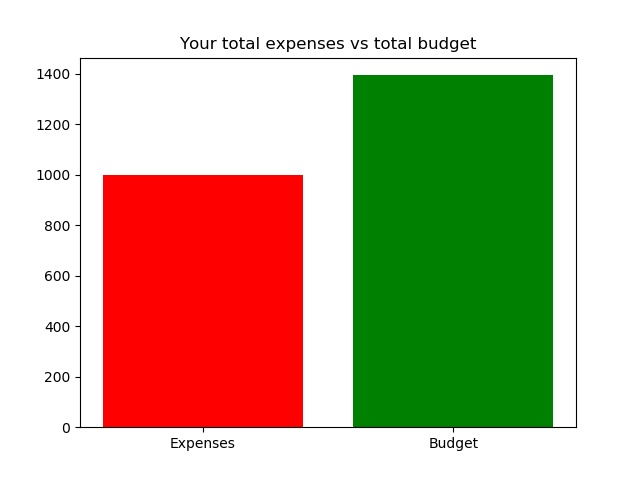
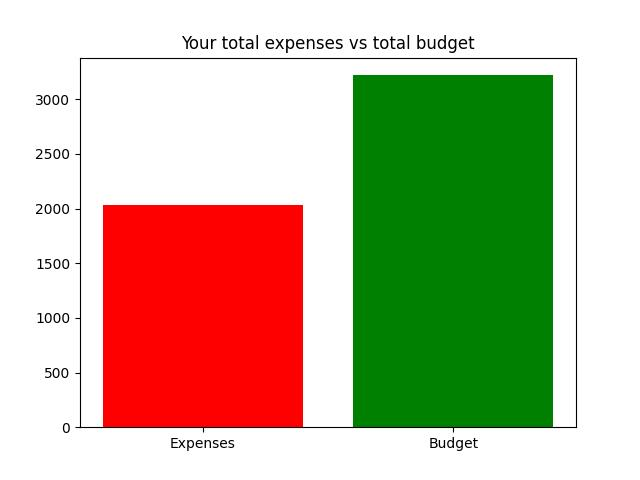
Commit budget_controller 02.11

diff --git a/budget_controller_app/budget/templates/budget/home-budget.html b/budget_controller_app/budget/templates/budget/home-budget.html
@@ -1,5 +1,6 @@
 {% extends 'budget/base.html' %}
 {% block content %}
+{% load static %}
 <body>
 <div class="content-section">
     <div class="media">
@@ -24,7 +25,7 @@
 <h2>Twoje wydatki:</h2>
 {% for a in expanses %}
 <h6>{{ a.expense_reason }} - {{ a.cost }} {{ a.currency_expanse }} from {{ a.date_expanse|date:"d.m.Y" }}</h6>
-    {% endfor %}
+{% endfor %}
 <div class="row">
     <div class="container center">
         <h3 clas='center'>You've spent a total of : <span style="color:red;">{{expenses}}</span></h3>
@@ -36,5 +37,5 @@
                 var instances = M.Datepicker.init(elems, {format:'yyyy-mm-dd'});
             });
         </script>
-</body>
+
 {% endblock %}

diff --git a/budget_controller_app/budget/views.py b/budget_controller_app/budget/views.py
@@ -11,7 +11,6 @@ from django.contrib.auth.models import User
 
 @login_required(login_url='login')
 def home_user_page(request):# strona startowa jak sie uzytkownik zaloguje
-    expense_items = ExpensesInfo.objects.filter(author_expanse=request.user).order_by('-date_expanse')
     try:
         budget_total = Income.objects.filter(author=request.user).aggregate(budget_total=Sum('income'))
         expense_total = ExpensesInfo.objects.filter(author_expanse=request.user).aggregate(expenses=Sum('cost'))
@@ -19,12 +18,12 @@ def home_user_page(request):# strona startowa jak sie uzytkownik zaloguje
         ax.bar(['Expenses', 'Budget'], [abs(expense_total['expenses']), budget_total['budget_total']],
                color=['red', 'green'])
         ax.set_title('Your total expenses vs total budget')
-        plt.savefig('budget_controller_app/static/budget/expense.jpg')
+        plt.savefig('budget/static/budget/expense.jpg')
     except TypeError:
         print('NO DATA')
-    context = {'expense_items': expense_items, 'title': 'Budget app', 'incomes': Income.objects.all(),
-               'expanses': ExpensesInfo.objects.all(), 'budget': budget_total,
-               'expenses': expense_total}
+    context = {'title': 'Budget app', 'incomes': Income.objects.all(),
+               'expanses': ExpensesInfo.objects.all(), 'budget': budget_total['budget_total'],
+               'expenses': abs(expense_total['expenses'])}
     return render(request, 'budget/home-budget.html', context=context)
 
 def about(request):
